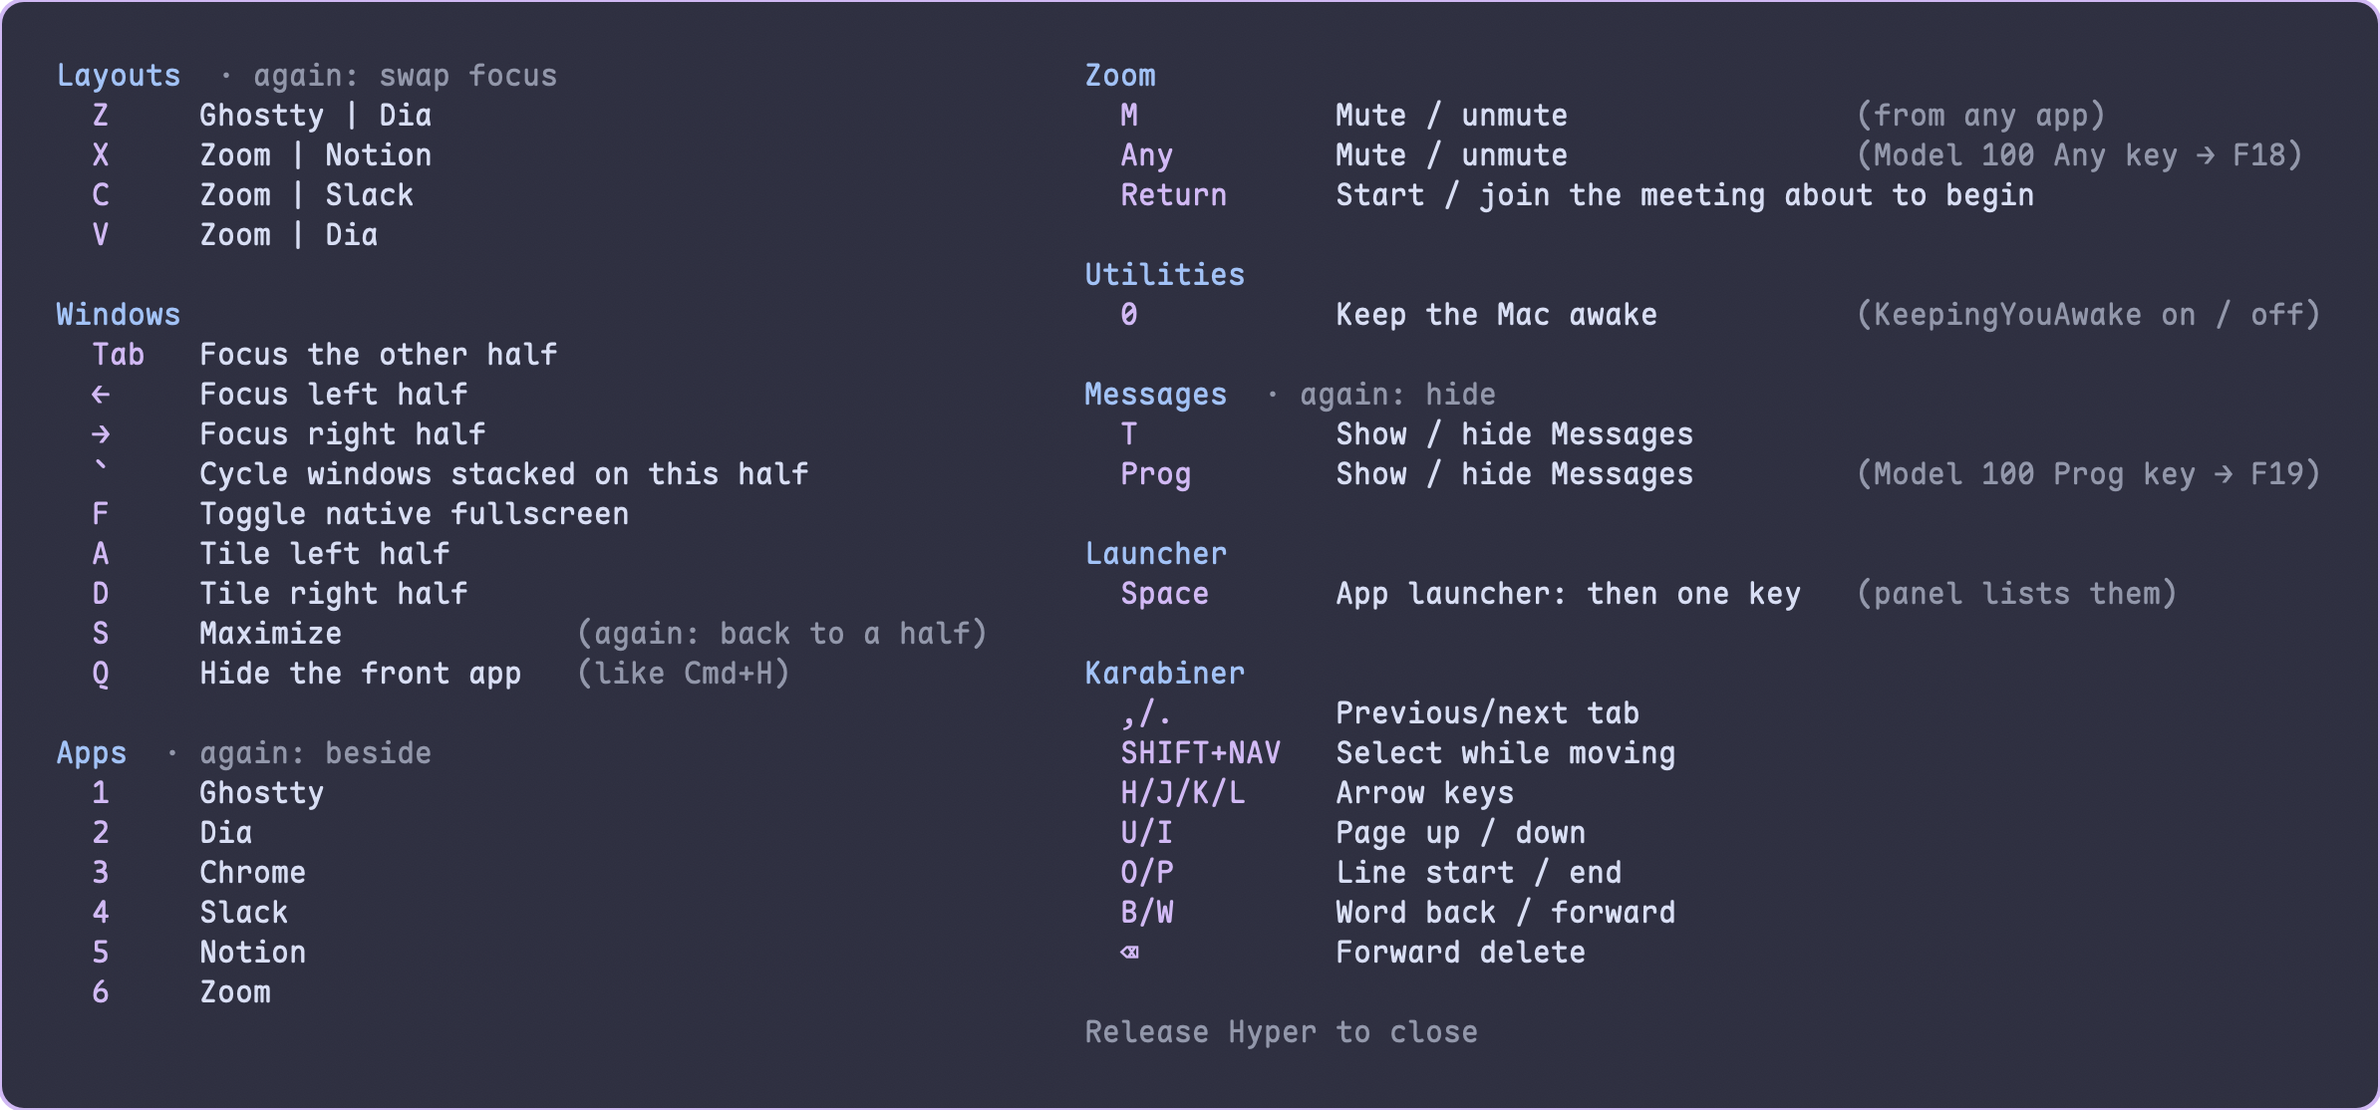
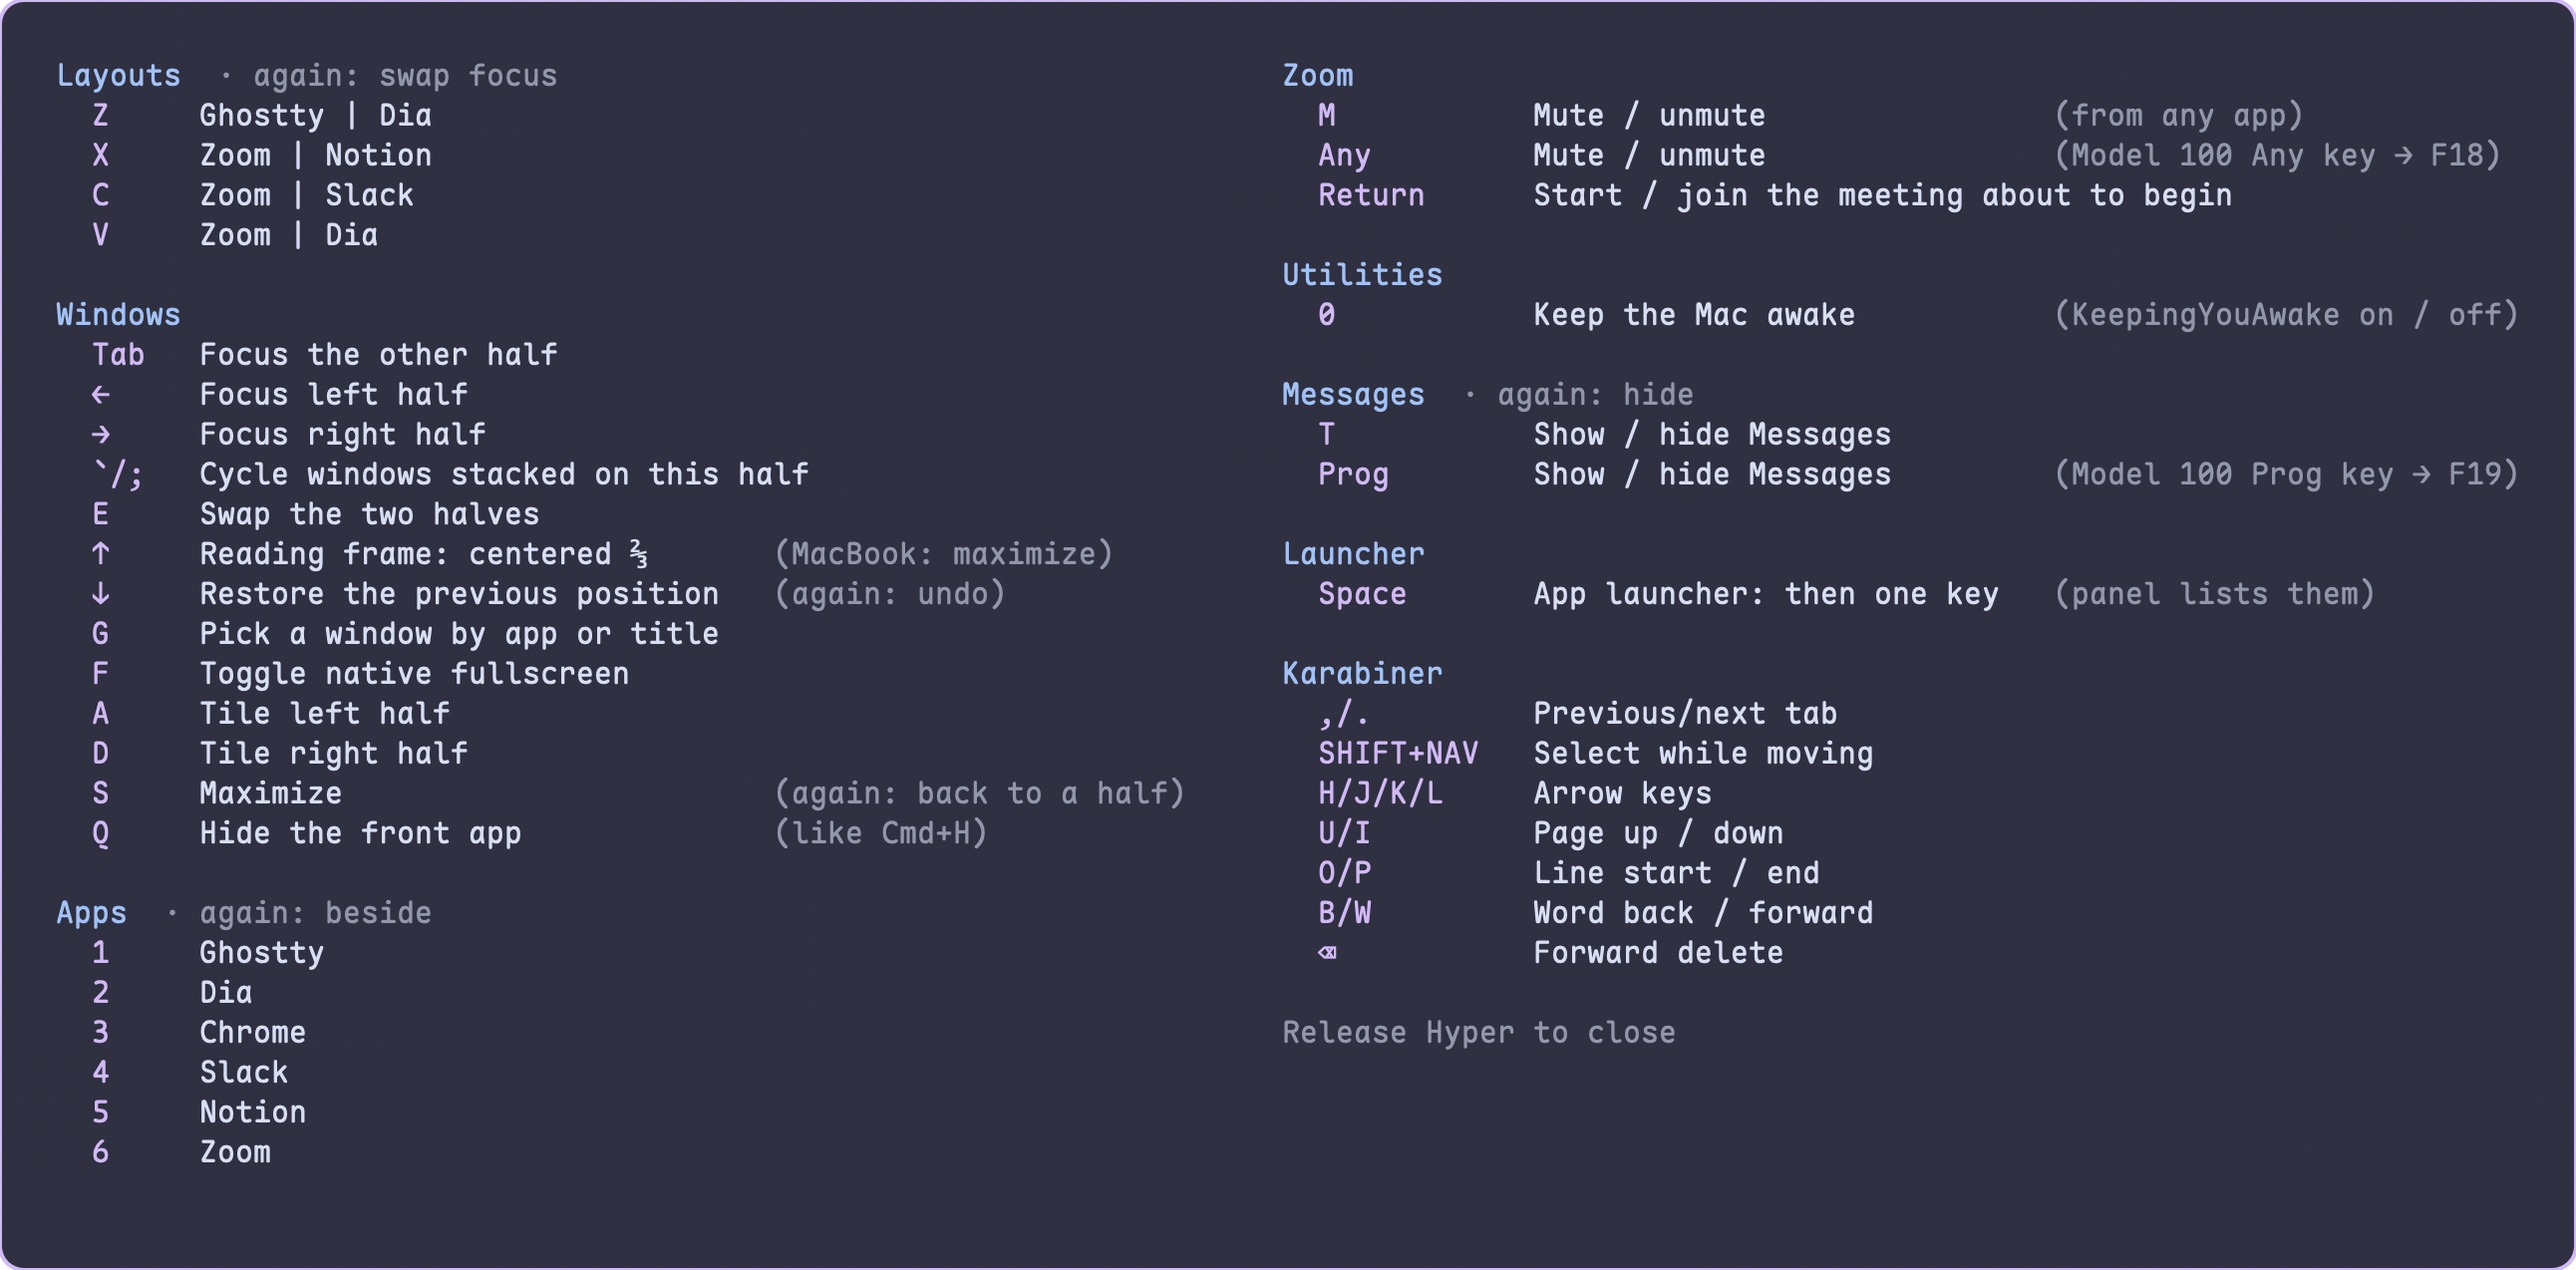
Hammerspoon: tiling fixes, and swap, picker, reading frame, restore
Fixes:
- isTiled missed a maximized window on top: it only counted windows
  above with the same x and width, so with Finder maximized over
  Ghostty | Dia, Hyper+Z thought the layout was up and left Dia buried
  (z-order after: Ghostty > Finder > Dia). A window now counts as
  covered when one above hides over half of it (after: Ghostty > Dia >
  Finder — both code versions run on the same setup).
- Hyper+Tab with nothing tiled focuses the next window down.
- "Beside" (a second Hyper+1–6, launcher Shift+key) skips other windows
  of the same app instead of pairing it with itself.
- bestWindow's Zoom fallback skipped "Zoom", but the home window is
  "Zoom Workplace" now.
- whenWindows' settling pass re-moved both windows 0.5 s later even if
  another Hyper key had been pressed meanwhile, undoing it. A count of
  Hyper presses now lets it stand down.
- Hyper+` used a literal 20 instead of `threshold`.

New keys:
- Hyper+E swaps the halves, focus staying put.
- Hyper+G: hs.chooser over every window (front to back, minimized
  last), filtered on title and app — a Ghostty session by its folder.
- Hyper+Up: centered ⅔ reading frame on an external display, maximize
  on the MacBook; again: maximize.
- Hyper+Down restores the frame from before Hammerspoon's last move;
  again: undo. The one agreed exception to "no memoized window state"
  (CLAUDE.md says so): moveWin/setWinFrame record previousFrame by window
  id, used only to restore.
[…]

diff --git a/GUIDE.md b/GUIDE.md
@@ -1031,7 +1031,7 @@ brightness 200/255):
   | Backspace — forward delete | pink |
   | `,` `.` — previous / next tab | white |
   | 1–6 — apps, each in its own color | Ghostty mauve (its Catppuccin accent), Dia yellow, Chrome green, Slack pink, Notion white, Zoom blue |
-  | Z X C V — layouts · ` Tab Q A S D F, left thumb Cmd Shift — windows | mauve · blue |
+  | Z X C V — layouts · ` ; Tab Q A S D E F G, left thumb arrows — windows | mauve · blue |
   | T Messages · M Return — Zoom mute, join | teal · red |
   | 0 — keep awake | yellow |
   | Space — launcher | green (like the app keys) |
@@ -1059,11 +1059,14 @@ adding or moving a Hyper binding, run `keyboardio-layers --apply`, then
 change. It writes over the same protocol Chrysalis uses and reads every value
 back; if something looks wrong, restore the committed backup with Chrysalis.
 
-The base layer has no arrow keys, so on the Hyper layer the **left thumb's
-Cmd and Shift send Hyper+← and Hyper+→** (focus left / right half). They're
-idle during a Hyper chord anyway — Hyper already holds every modifier. This is
-an override in `keyboardio-layers` (`THUMB_ARROWS`); everything else on the
-layer is generated from the base layer.
+The base layer has no arrow keys, so on the Hyper layer the **left thumb arc
+sends the four Hyper+arrows**, outer to inner: Ctrl ↑ (reading frame),
+Backspace ↓ (restore), Cmd ← and Shift → (focus left / right half). The
+modifiers are idle during a Hyper chord anyway — Hyper already holds every
+one. Backspace gives up Hyper+⌫ (forward delete) on this keyboard; forward
+delete stays on Fn+Backspace. This is an override in `keyboardio-layers`
+(`THUMB_ARROWS`); everything else on the layer is generated from the base
+layer.
 
 Two consequences of Hyper being a layer here: holding Hyper *alone* sends
 nothing, so the on-screen cheatsheet only opens from the MacBook's Caps Lock
@@ -1130,7 +1133,7 @@ Hammerspoon running and the Xcode Command Line Tools (`swiftc`).
 | Hyper + U / I | Page up / Page down |
 | Hyper + O / P | Line start / end (Cmd+Left/Right) |
 | Hyper + B / W | Word back / forward (Option+Left/Right) |
-| Hyper + Backspace | Forward delete |
+| Hyper + Backspace | Forward delete (Model 100: Fn+Backspace — its Hyper+Backspace is ↓) |
 | Hyper + **right Shift** + any of the above but Backspace | The same, selecting (Shift+arrow, Shift+Cmd+←, …) |
 
 Works system-wide: Slack, Notion, Chrome, Ghostty, etc.
@@ -1175,9 +1178,13 @@ sysdiagnose.
 | Hyper + S | Maximize window (no fullscreen); again on a maximized window: back to a half |
 | Hyper + D | Tile window right half |
 | Hyper + F | Toggle native fullscreen |
-| Hyper + Tab | Toggle focus between left/right windows |
+| Hyper + E | Swap the two halves (the focused window keeps focus) |
+| Hyper + Up | Reading frame: centered, ⅔ wide, full height; again: maximize. On the MacBook's screen: maximize (Model 100: left thumb Ctrl) |
+| Hyper + Down | Put the window back where it was before the last move; again: undo that (Model 100: left thumb Backspace) |
+| Hyper + Tab | Toggle focus between left/right windows; nothing tiled: the next window down |
 | Hyper + Left/Right | Focus window in that direction (MacBook arrows; Model 100: left thumb Cmd / Shift) |
-| Hyper + ` | Cycle the windows stacked on this half (or at this spot) |
+| Hyper + ` (or ;) | Cycle the windows stacked on this half (or at this spot) |
+| Hyper + G | Pick any window from a list, typing part of its app or title |
 | Hyper + Q | Hide the front app (like `Cmd+H`); focus returns to the previous app |
 
 Every move is instant — Hammerspoon's default 0.2 s slide is off
@@ -1192,7 +1199,24 @@ exactly where the focused one is — Slack and Notion both tiled right, two
 maximized windows, two floats on top of each other. Hyper+Tab and Hyper+Left/Right
 only ever reach the topmost window of a half; this gets at the ones under it.
 Each press raises the bottom-most of the stack, so three windows come round in
-turn rather than the top two swapping.
+turn rather than the top two swapping. Hyper+; does the same from the right
+hand — on the MacBook, ` with Caps Lock held is a stretch.
+
+Hyper+G lists every window front to back (minimized ones last) with its app's
+icon; typing filters on title and app name. Ghostty's titles carry the folder
+and the running command, so a particular Claude session is a few keystrokes.
+
+**Hyper+Down is the one thing that remembers.** Everything else is derived
+from live window positions on each press, but "where was it before" can't be
+read off the screen: each window's frame from just before Hammerspoon last
+moved it (tiles, layouts, maximize, swap, the reading frame, the messenger
+floats) is kept, by window id, and used only to restore. Moves made by
+dragging or by an app itself aren't recorded.
+
+A layout started cold (an app launching) moves its windows again 0.5 s later,
+because Slack and Notion restore their own saved frame just after appearing.
+That second pass stands down if you've pressed another Hyper key meanwhile,
+so it can't undo it.
 
 ### Layouts (Hammerspoon, bottom row)
 

diff --git a/CLAUDE.md b/CLAUDE.md
@@ -80,7 +80,8 @@ commit. Go through what applies:
   is saved. Query live state with `hs -c '<lua>'`; don't run `hs -c 'hs.reload()'`
   in the foreground, it hangs. In scripts, give `hs` `</dev/null` — it reads
   commands from stdin when that isn't a terminal and otherwise waits forever. Never memoize window state — derive it from live
-  positions. Use `hs.alert` only for state feedback (mute, errors), not routine
+  positions (the one exception: Hyper+Down's `previousFrame`, used only to
+  restore). Use `hs.alert` only for state feedback (mute, errors), not routine
   actions.
   Bind Hyper keys with `bindHyper(key, section, description, fn)` (it binds by
   physical key code, so shortcuts survive the Czech layout). Look apps up
